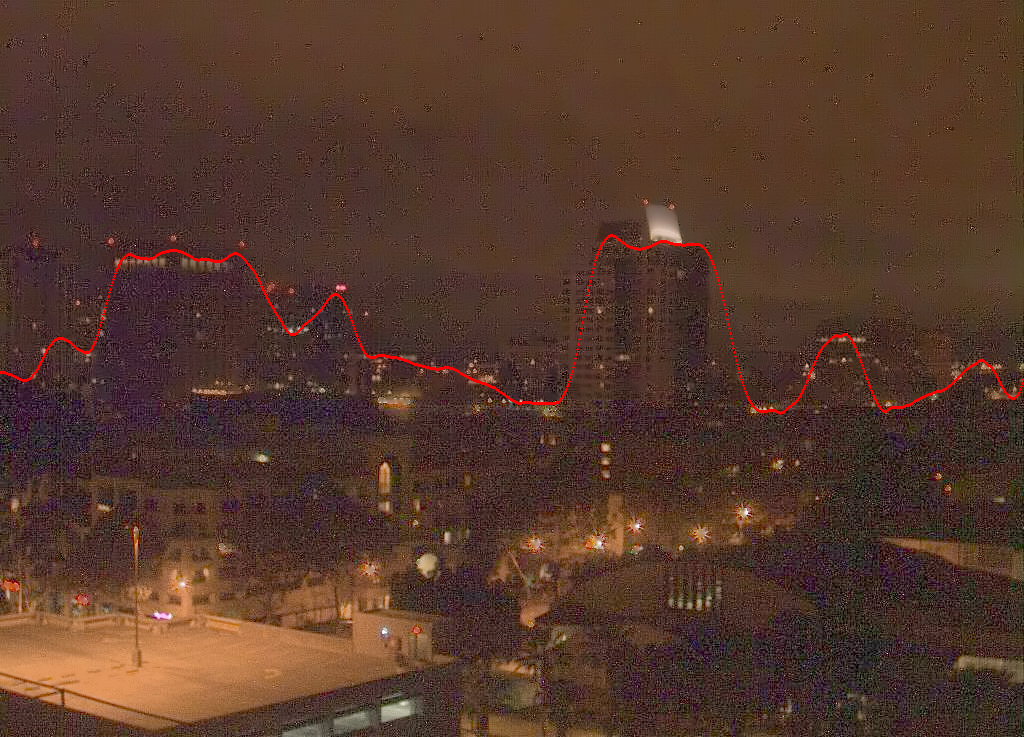
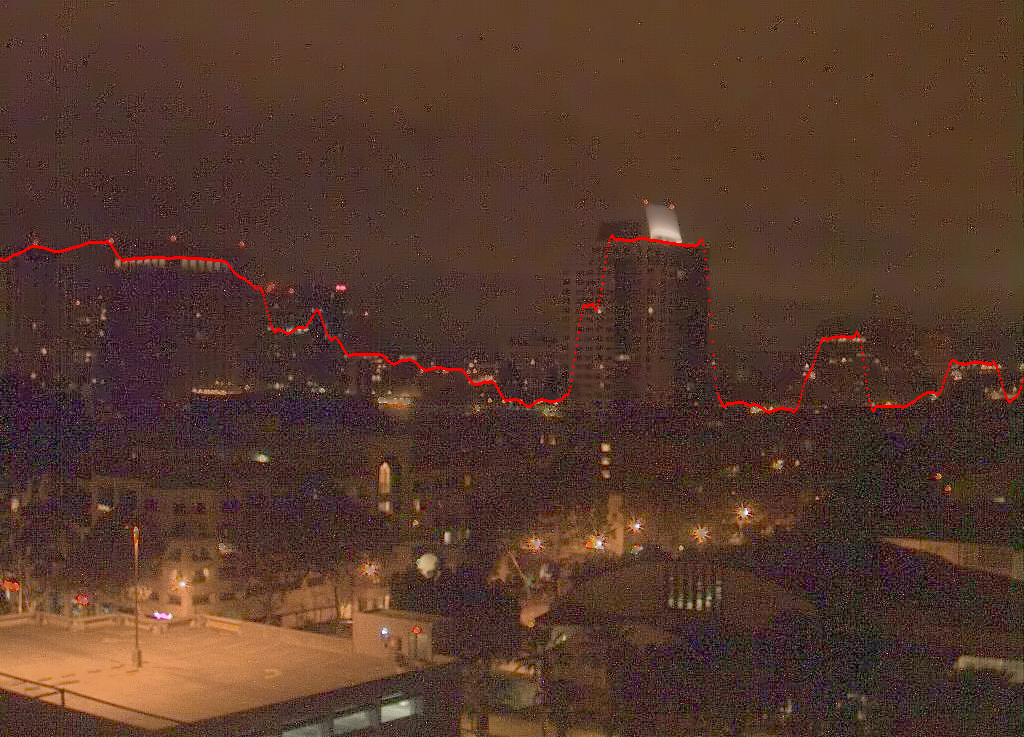
made new energy field and imrpoved skyline detection

diff --git a/sky_detection.py b/sky_detection.py
@@ -53,33 +53,31 @@ def preprocess_night(img_bgr: np.ndarray,
     return gray
 
 
-def compute_energy(gray: np.ndarray) -> np.ndarray:
-    """
-    Improved skyline energy with thin-edge suppression.
-    """
+def compute_energy(gray):
+    H, W = gray.shape
+    g = gray.astype(np.float32)
 
-    # --- Multi-scale vertical gradients ---
-    gy_small = cv2.Sobel(gray, cv2.CV_32F, 0, 1, ksize=3)
-    gy_large = cv2.Sobel(gray, cv2.CV_32F, 0, 1, ksize=9)
+    # Vertical gradient
+    gy = cv2.Sobel(g, cv2.CV_32F, 0, 1, ksize=5)
 
-    # Larger kernel suppresses tiny lights
-    energy = 1.0 * abs(gy_small) + 1.2 * abs(gy_large)
+    energy = np.zeros_like(g)
 
-    # Thin edge suppression
-    edges = cv2.Canny(gray, 50, 150)
+    window = 40
 
-    # Dilate edges to measure thickness
-    dilated = cv2.dilate(edges, np.ones((5, 5), np.uint8))
+    for y in range(window, H - window):
+        above = g[y-window:y]
+        below = g[y:y+window]
 
-    # Thin edges = edges that disappear when dilated
-    thin_edges = edges.astype(np.float32) - dilated.astype(np.float32) * 0.3
+        var_above = np.var(above, axis=0)
+        var_below = np.var(below, axis=0)
 
-    # Subtract thin-edge penalty from energy
-    energy = energy - 0.8 * thin_edges
+        region_score = np.maximum(var_below - var_above, 0)
 
-    # --- Normalize to [0,1] ---
-    e_min, e_max = energy.min(), energy.max()
-    energy = (energy - e_min) / (e_max - e_min + 1e-6)
+        energy[y] = 1.3*np.abs(gy[y]) + 1.0*region_score
+
+    # Normalize
+    energy -= energy.min()
+    energy /= (energy.max() + 1e-6)
 
     return energy
 
@@ -123,8 +121,8 @@ def find_skyline_path(energy: np.ndarray,
     # Precompute smoothness penalties for jumps
     # penalty(dy) = smoothness * (dy^2) normalized
     jumps = np.arange(-max_jump, max_jump + 1, dtype=np.int32)
-    penalties = smoothness * (jumps.astype(np.float32) ** 2) / max(1.0, float(max_jump * max_jump))
-
+    penalties = smoothness * (np.abs(jumps).astype(np.float32)) / max(1.0, float(max_jump)) 
+    
     # Forward pass
     for x in range(1, W):
         for j, dy in enumerate(jumps):
@@ -170,7 +168,7 @@ def detect_skyline(img_bgr: np.ndarray,
 
     gray = preprocess_night(img_bgr, use_clahe=True, gamma=gamma, denoise_h=denoise_h)
     energy = compute_energy(gray)
-
+            
     y_path = find_skyline_path(
         energy,
         top_bias=top_bias,
@@ -178,7 +176,7 @@ def detect_skyline(img_bgr: np.ndarray,
         max_jump=max_jump
     )
 
-    y_path = savgol_filter(y_path, 51, 3)
+    y_path = savgol_filter(y_path, 21, 3)
     y_path = np.round(y_path).astype(int)
 
     sky_mask = skyline_to_mask(gray.shape[0], gray.shape[1], y_path)
@@ -211,17 +209,15 @@ if __name__ == "__main__":
 
     y_path, sky_mask, dbg = detect_skyline(
         img,
-        gamma=1.5,
-        denoise_h=15,
-        top_bias=0.2,
-        smoothness=2.0,
-        max_jump=20
+        gamma=1.5,          # gamma: How bright the 
+        denoise_h=15,       # denoise_h: Parameter for NLM denoising
+        top_bias=0.2,       # top_bias: How much we favor the top of the image
+        smoothness=2.0,     # smoothness: How smooth we want the skyline to be
+        max_jump=30         # max_jump: How big peaks can be
     )
 
     cv2.imwrite(f"{args.out_prefix}_mask.png", sky_mask)
     cv2.imwrite(f"{args.out_prefix}_overlay.png", dbg["overlay"])
-    cv2.imwrite(f"{args.out_prefix}_energy.png", dbg["energy"])
-    cv2.imwrite(f"{args.out_prefix}_gray.png", dbg["gray"])
     print("Wrote:",
           f"{args.out_prefix}_mask.png,",
           f"{args.out_prefix}_overlay.png,",
